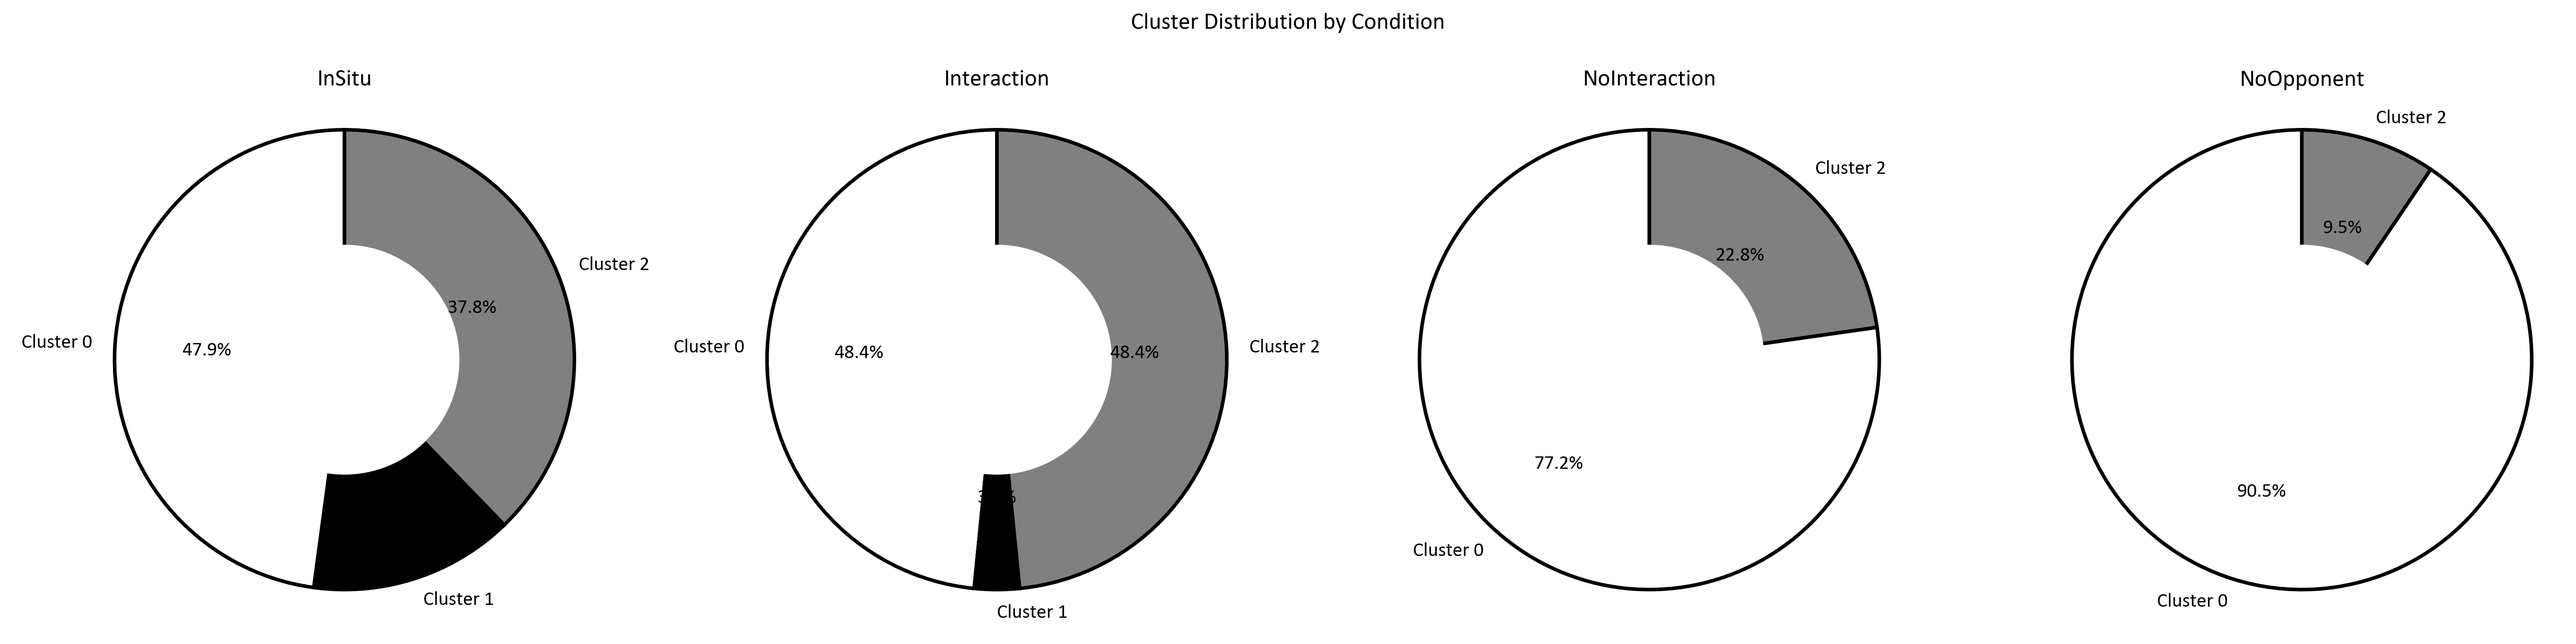
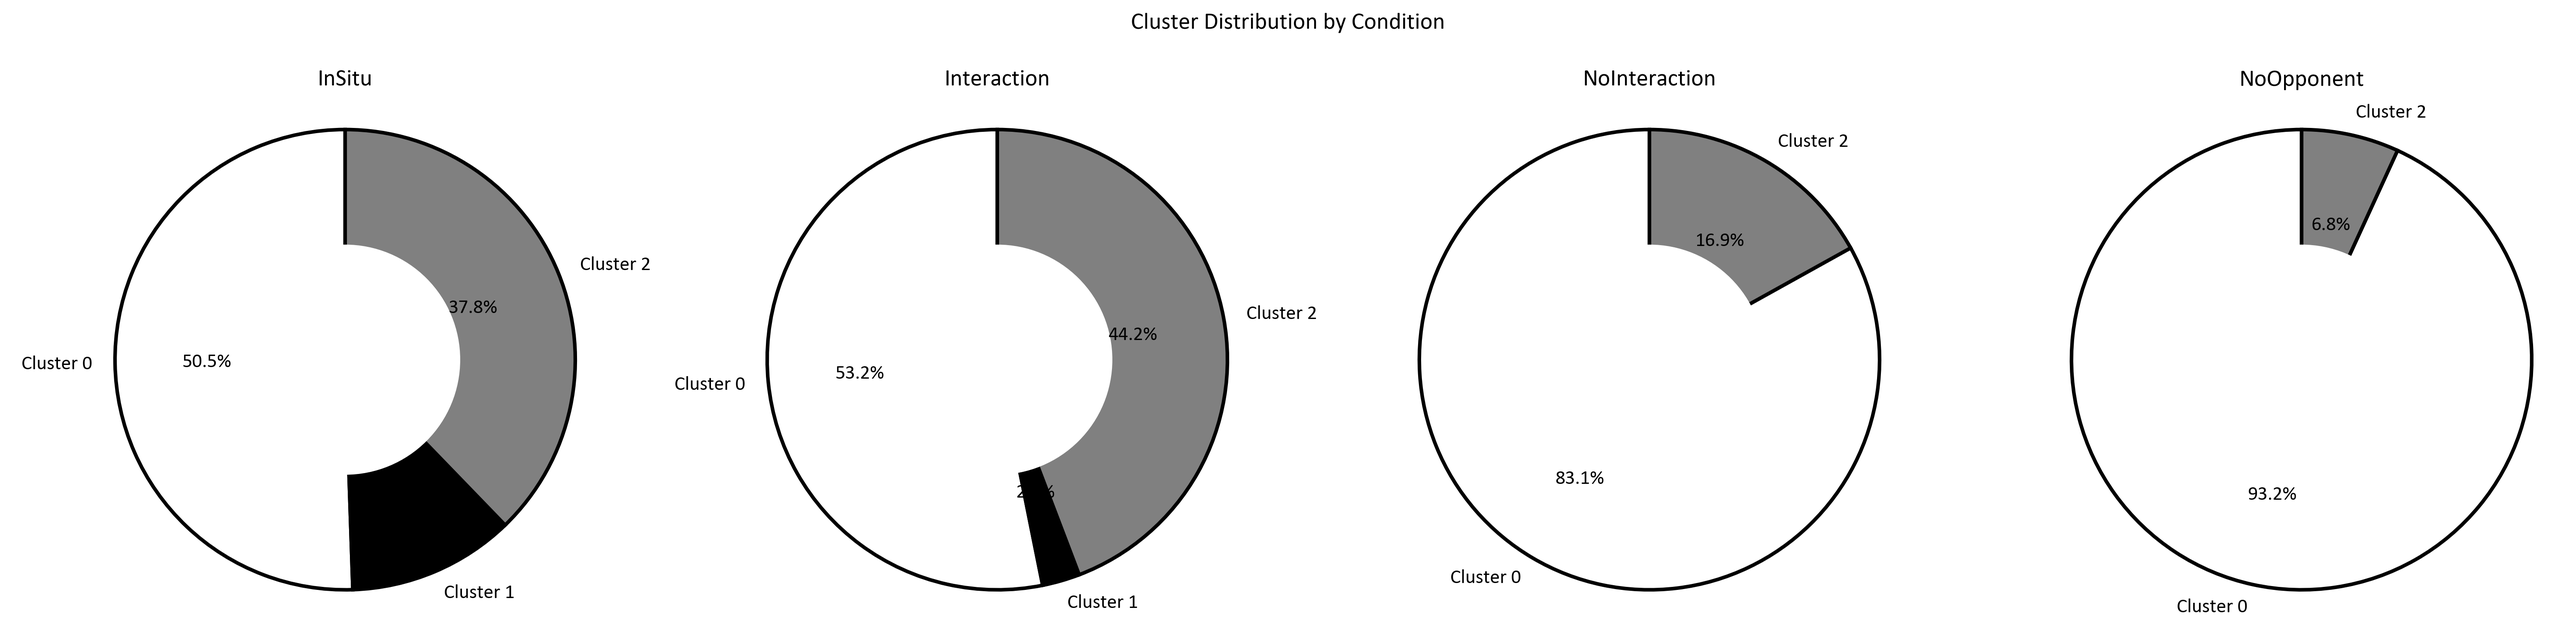
use hip trackers for clustering

diff --git a/Python.Analysis/src/domain.py b/Python.Analysis/src/domain.py
@@ -169,55 +169,46 @@ class Trial:
         interp_func = interp1d(timestamps, data, kind="linear", fill_value="extrapolate")
         return target_times, interp_func(target_times)
 
+    def filtered_like_original(self, signal, timestamps, cutoff=1, target_fs=100, order=3):
+        upsampled_times, upsampled_signal = self.upsample(signal, timestamps, target_fs=target_fs)
+        b, a = butter(order, cutoff / (0.5 * target_fs), btype='low')
+        filtered_upsampled = filtfilt(b, a, upsampled_signal)
+        interpolated = np.interp(timestamps, upsampled_times, filtered_upsampled)
+        return interpolated
+
     def number_lateral_changes_of_direction(self, cutoff=1, target_fs=100, order=3):
         raw_timestamps = np.array(self.timestamps)  # Original timestamps (100ms interval)
-        z_positions = np.array([pos.z for pos in self.head_positions])  # Z positions of user's head
+        z_positions = np.array([pos.z for pos in self.hip_positions])  # Z positions of user's head
 
-        # Filter timestamps and z positions to match the start and end of the trial
         z_positions = z_positions[self.start.time_index:self.pass_event.time_index]
         raw_timestamps = raw_timestamps[self.start.time_index:self.pass_event.time_index]
 
-        upsampled_times, upsampled_z = self.upsample(z_positions, raw_timestamps, target_fs=target_fs)
-        filtered_z = self.butterworth_filter(upsampled_z, cutoff=cutoff, fs=target_fs, order=order)
+        z_positions = self.filtered_like_original(z_positions, raw_timestamps, cutoff=1, target_fs=100, order=3)
 
-        # Compute sign changes in derivative
-        derivative = np.diff(filtered_z)
-        return np.sum(derivative[1:] * derivative[:-1] < 0)
+        derivative = np.diff(z_positions)
+        number_changes_direction = np.sum(derivative[1:] * derivative[:-1] < 0)
+
+        return number_changes_direction
 
     def time_between_last_change_of_direction_and_pass(self) -> float:
-        # Get the Z positions of the head
-        z_positions = np.array([pos.z for pos in self.head_positions])
-        
-        # Find the index of the first touch and the pass event
-        first_touch_index = None
-        for i, action in enumerate(self.actions):
-            if isinstance(action, Touch):
-                first_touch_index = i
-                break
-        
-        if first_touch_index is None or self.pass_event.time_index <= first_touch_index:
-            return float('nan')  # Return NaN if no valid first touch or pass event is found
+        raw_timestamps = np.array(self.timestamps)
+        z_positions = np.array([pos.z for pos in self.hip_positions])
 
-        # Restrict Z positions to the range between the first touch and the pass event
-        relevant_z_positions = z_positions[first_touch_index:self.pass_event.time_index + 1]
+        z_positions = z_positions[self.start.time_index:self.pass_event.time_index]
+        raw_timestamps = raw_timestamps[self.start.time_index:self.pass_event.time_index]
 
-        # Apply Butterworth filter to the relevant Z positions
-        filtered_z = self.butterworth_filter(relevant_z_positions)
+        z_positions = self.filtered_like_original(z_positions, raw_timestamps, cutoff=1, target_fs=100, order=3)
 
-        derivative = np.diff(filtered_z)
+        derivative = np.diff(z_positions)
+        indices_of_change = np.where(derivative[1:] * derivative[:-1] < 0)[0]
+        last_change_index = indices_of_change[-1] if indices_of_change.size > 0 else None
 
-        last_change_index = None
+        if last_change_index is not None:
+            last_change_time = raw_timestamps[last_change_index]
+            pass_time = self.timestamps[self.pass_event.time_index]
+            return pass_time - last_change_time
 
-        for i in range(len(derivative) - 1, 0, -1):
-            if derivative[i] * derivative[i - 1] < 0:  # Check for sign change
-                last_change_index = i + 1  # +1 because of the diff operation
-                break
-        
-        if last_change_index is not None and last_change_index + first_touch_index < self.pass_event.time_index:
-            time_difference = self.timestamps[self.pass_event.time_index] - self.timestamps[last_change_index + first_touch_index]
-            return time_difference
-        
-        return self.duration() 
+        return self.duration()
 
 
 @dataclass

diff --git a/Python.Analysis/src/cluster_analysis.py b/Python.Analysis/src/cluster_analysis.py
@@ -9,13 +9,6 @@ import pandas as pd  # Import pandas for tabular data handling
 from collections import Counter
 
 def perform_cluster_analysis(trials: List[Trial], n_clusters: int) -> None:
-    # Filter out trials with NaN values in the features
-    valid_trials = [trial for trial in trials if not np.isnan(trial.time_between_last_change_of_direction_and_pass())]
-    
-    # If no valid trials, return early
-    if not valid_trials:
-        print("No valid trials available for clustering.")
-        return
 
     trial_features = np.array([
         [
@@ -23,29 +16,28 @@ def perform_cluster_analysis(trials: List[Trial], n_clusters: int) -> None:
             trial.time_between_last_change_of_direction_and_pass(),
             trial.number_lateral_changes_of_direction()
         ]
-        for trial in valid_trials
+        for trial in trials
     ])
     
-    # Impute NaN values for time_between_last_change_of_direction_and_pass
-    time_between_changes = trial_features[:, 1]  # Extract the second feature
-    mean_time_between_changes = np.nanmean(time_between_changes)  # Calculate the mean, ignoring NaNs
-    time_between_changes[np.isnan(time_between_changes)] = mean_time_between_changes  # Impute NaN values
+    # # Impute NaN values for time_between_last_change_of_direction_and_pass
+    # time_between_changes = trial_features[:, 1]  # Extract the second feature
+    # mean_time_between_changes = np.nanmean(time_between_changes)  # Calculate the mean, ignoring NaNs
+    # time_between_changes[np.isnan(time_between_changes)] = mean_time_between_changes  # Impute NaN values
+    #
+    # # Update trial_features with the imputed values
+    # trial_features[:, 1] = time_between_changes
+    #
+    # # Impute NaN values for other features if necessary
+    # for i in range(trial_features.shape[1]):
+    #     mean_value = np.nanmean(trial_features[:, i])
+    #     trial_features[np.isnan(trial_features[:, i]), i] = mean_value  # Impute NaN values
 
-    # Update trial_features with the imputed values
-    trial_features[:, 1] = time_between_changes
-
-    # Impute NaN values for other features if necessary
-    for i in range(trial_features.shape[1]):
-        mean_value = np.nanmean(trial_features[:, i])
-        trial_features[np.isnan(trial_features[:, i]), i] = mean_value  # Impute NaN values
-
-    # Perform KMeans clustering
-    kmeans = KMeans(n_clusters=n_clusters)
+    kmeans = KMeans(n_clusters=n_clusters, random_state=1991)
     kmeans.fit(trial_features)
     labels = kmeans.labels_
 
     # Store the cluster label in the trial object
-    for trial, label in zip(valid_trials, labels):
+    for trial, label in zip(trials, labels):
         trial.cluster_label = label
 
     # Prepare to collect averages for each condition
@@ -56,7 +48,7 @@ def perform_cluster_analysis(trials: List[Trial], n_clusters: int) -> None:
     print("\nPercentage of trials in each cluster by condition:")
     
     for condition in conditions:
-        condition_trials = [trial for trial in valid_trials if trial.condition == condition]
+        condition_trials = [trial for trial in trials if trial.condition == condition]
         condition_labels = [trial.cluster_label for trial in condition_trials]
         
         print(f"\nCondition: {condition.value}")
@@ -103,7 +95,7 @@ def perform_cluster_analysis(trials: List[Trial], n_clusters: int) -> None:
     cluster_averages = {i: [] for i in range(n_clusters)}
     
     for i in range(n_clusters):
-        cluster_trials = [trial_features[j] for j in range(len(valid_trials)) if labels[j] == i]
+        cluster_trials = [trial_features[j] for j in range(len(trials)) if labels[j] == i]
         if cluster_trials:
             cluster_averages[i] = np.mean(cluster_trials, axis=0)
         else:
